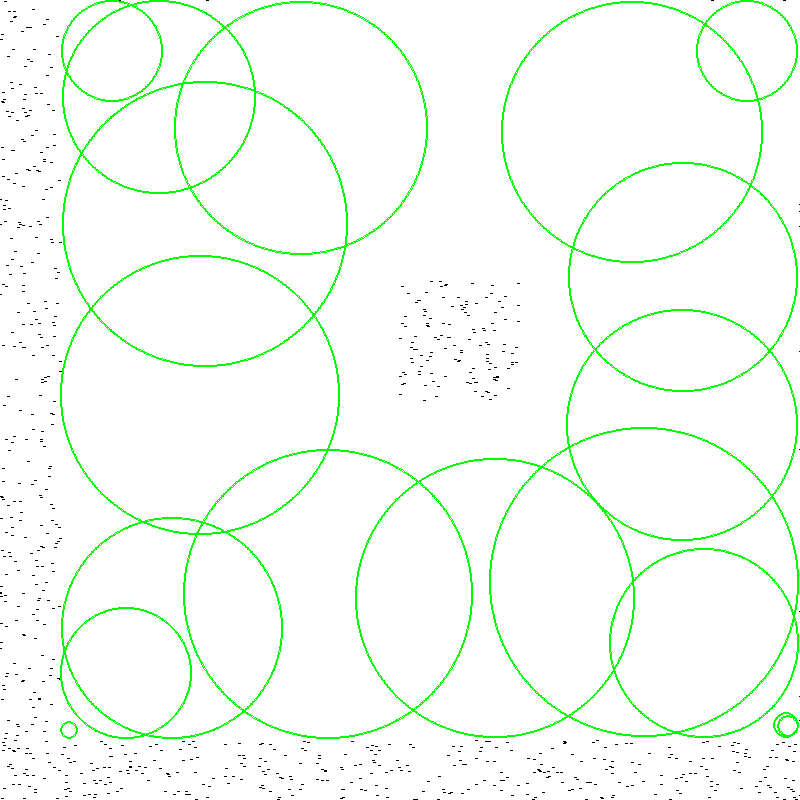
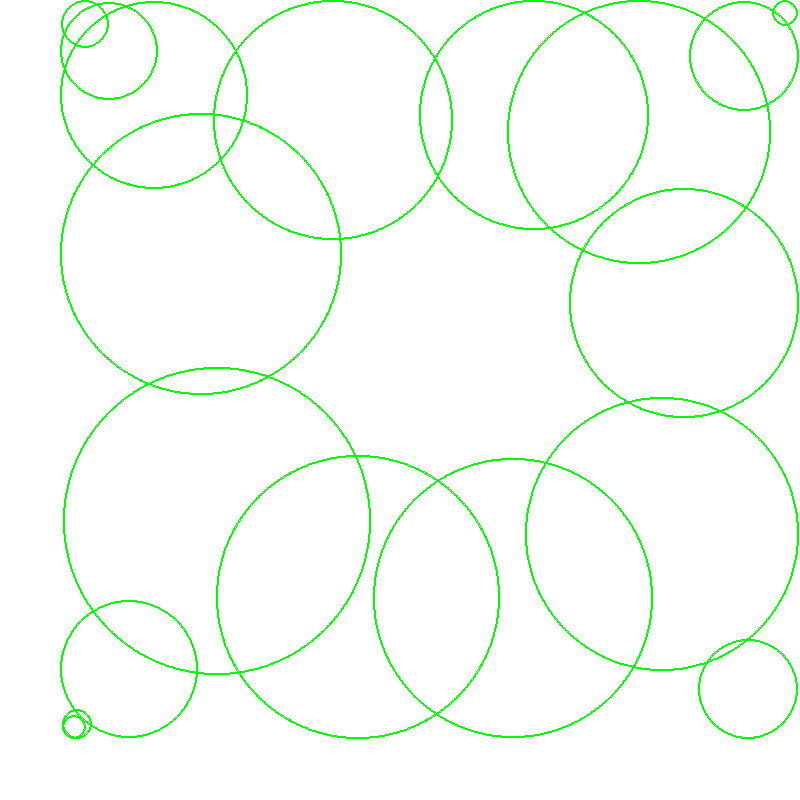
test case ready. Let's see what will happen tomorrow.

diff --git a/topology/hyper_graph.py b/topology/hyper_graph.py
@@ -7,4 +7,72 @@ __author__ = 'Yinan Zhang	Dartmouth College'
 __revision__ = '$Revision$'
 
 import sys, os, copy
-sys.path.append('../math')
+sys.path.append('../basics/math')
+sys.path.append('../alphashape')
+
+from l1_geometry 		import *
+from hyper_geometry 	import *
+from hyper_alpha_shape 	import *
+
+class Graph:
+	def __init__(self, dictionary = None):
+		'''Graph described by a dictionary.
+		A graph is of this format:
+
+        {
+        	'A' : ['B','C'],
+        	'B' : ['A','C'],
+        	'C' : ['A','B']
+        }
+
+       	     
+        A ------- B
+         \       /
+          \     /  
+           \   /
+             C 
+		'''
+		self.graphdict = dictionary;
+
+	def adj_nodes_of(self, node):
+		return self.graphdict[node];
+		
+	def all_nodes(self):
+		'''get all nodes in the graph'''
+		return self.graphdict.keys();
+
+	def size(self):
+		return len(self.all_nodes());
+
+	def share_nodes_with(self, other):
+		'''determine if two graphs share same ndoes'''
+		othernodes = other.get_all_nodes();
+		for node in othernodes:
+			if self.graphdict.has_key( node ):
+				return True;
+		return False;
+
+	def num_of_loops(self):
+		'''the number of 1d holes'''
+		edge_num = 0;
+		for node in self.graphdict.keys():
+			neighbors = self.graphdict[node];
+			edge_num += len(neighbors);
+		edge_num /= 2;
+		vert_num = len(self.graphdict.keys());
+		return edge_num - vert_num + 1;
+
+	def find_all_paths(self, start, end, path=[]):
+		path = path + [start];
+		if start == end:
+			return [path];
+		if not self.graphdict.has_key(start) or not self.graphdict.has_key(end):
+			return [];
+		paths = [];
+		for neighbor in self.graphdict[start]:
+			if neighbor not in path:
+				newpaths = self.find_all_paths( node, end, path);
+				for newpath in newpaths:
+					paths.append(newpath);
+		return paths;
+

diff --git a/topology/test.py b/topology/test.py
@@ -1,0 +1,47 @@
+
+import sys, os, math, pygame
+sys.path.append('../basics/math')
+sys.path.append('../alphashape')
+
+from hyper_geometry 	import *
+from hyper_alpha_shape 	import *
+from l1_geometry 		import *
+from hyper_graph 		import *
+
+def load_data(filename):
+	'''load spheres information from file'''
+	file2read = open( filename, 'r' );
+	spheres = [];
+	for line in file2read:
+		strSphere = line;
+		info = strSphere.split( '\t' );
+		center = [0] * (len(info)-1);
+		for i in range(0, len(info)-1):
+			center[i] = float(info[i]);
+		radius = float(info[len(info)-1]);
+		sphere = l1_sphere(center, radius);
+		spheres.append(sphere);
+	return spheres;
+
+def draw_triangles(surf, triangle_set):
+	for triangle in triangle_set:
+		points = [ (int(triangle.spheres[0].center[2]), int(triangle.spheres[0].center[3]) ), (int(triangle.spheres[1].center[2]), int(triangle.spheres[1].center[3]) ), ( int(triangle.spheres[2].center[2]), int(triangle.spheres[2].center[3] )) ];
+		pygame.draw.polygon(surface, (0,200, 0), points);
+
+def draw_topology_roadmap( surf, graph_dict ):
+	'''given a graph dictionary, draw the graph to a 2D canvas'''	
+	
+	
+
+def main():
+	spheres = load_data('BlockRobotMASamplesL1.txt');
+	alphashape = Nerve();
+	edges, triangle_set, graph_dict, edge_tri_dict = alphashape.nerve(spheres);
+	new_graph_dict = alphashape.build_topology_roadmap(sphere_set, triangle_set, edge_tri_dict, graph_dict);
+	graph = hyper_graph(new_graph_dict);
+
+	pass;
+
+
+if __name__ == '__main__':
+	main();

diff --git a/sampling/test.py b/sampling/test.py
@@ -29,14 +29,14 @@ def main():
 
 	dimensions = [ 800 ] * 4;
 	
-	random_bad_configs = sampler.random_invalid_configs( 4, 5000, dimensions)
-	for config in random_bad_configs:
-		point = (int(config[2]), int(config[3]));
-		pygame.draw.line( DISPLAYSURF, (0,0,0), point, point, 3 );
+	#random_bad_configs = sampler.random_invalid_configs( 4, 5000, dimensions)
+	#for config in random_bad_configs:
+	#	point = (int(config[2]), int(config[3]));
+	#	pygame.draw.line( DISPLAYSURF, (0,0,0), point, point, 3 );
 
-	random_configs = sampler.random_configs(4, 2000, dimensions);
-	ma_samples = sampler.sample_medial_axis(random_configs, dimensions, 'L2');
-	sampler.save_data(ma_samples, 'BlockRobotMASamples.txt');
+	random_configs = sampler.random_configs(4, 6000, dimensions);
+	ma_samples = sampler.sample_medial_axis(random_configs, dimensions, 'L1');
+	sampler.save_data(ma_samples, 'BlockRobotMASamplesL1.txt');
 
 	print 'Get {0} medial axis samples'.format(len(ma_samples));
 
@@ -50,7 +50,7 @@ def main():
 	#robot.set_config(testConfig);
 	#robot.render(DISPLAYSURF, 200);
 
-	pygame.image.save(DISPLAYSURF, 'BlockRobot.PNG');
+	pygame.image.save(DISPLAYSURF, 'BlockRobotL1.PNG');
 
 if __name__ == '__main__':
 	main();

diff --git a/sampling/masampling.py b/sampling/masampling.py
@@ -9,10 +9,12 @@ from hyper_geometry import *
 from configuration 	import *
 from robot 			import *
 from BlockRobots 	import *
+from l1_geometry 	import *
 
 class Sample(hyper_sphere):
 	'''A sample is a configuration with clearance. '''
 	def __init__( self, center, radius ):
+		#l1_sphere.__init__(self,center, radius);
 		hyper_sphere.__init__(self,center, radius);
 		self.rnd_cfgs = []; 					# Random configurations 
 		self.bnd_cfgs = [];						# boundary configurations

diff --git a/alphashape/hyper_alpha_shape.py b/alphashape/hyper_alpha_shape.py
@@ -13,7 +13,8 @@ sys.path.append('../basics/math')
 from numpy.linalg import matrix_rank
 
 from hyper_geometry import *
-from Triangle import *
+from l1_geometry 	import *
+from Triangle 		import *
 
 class Nerve:
 	def __init__(self):
